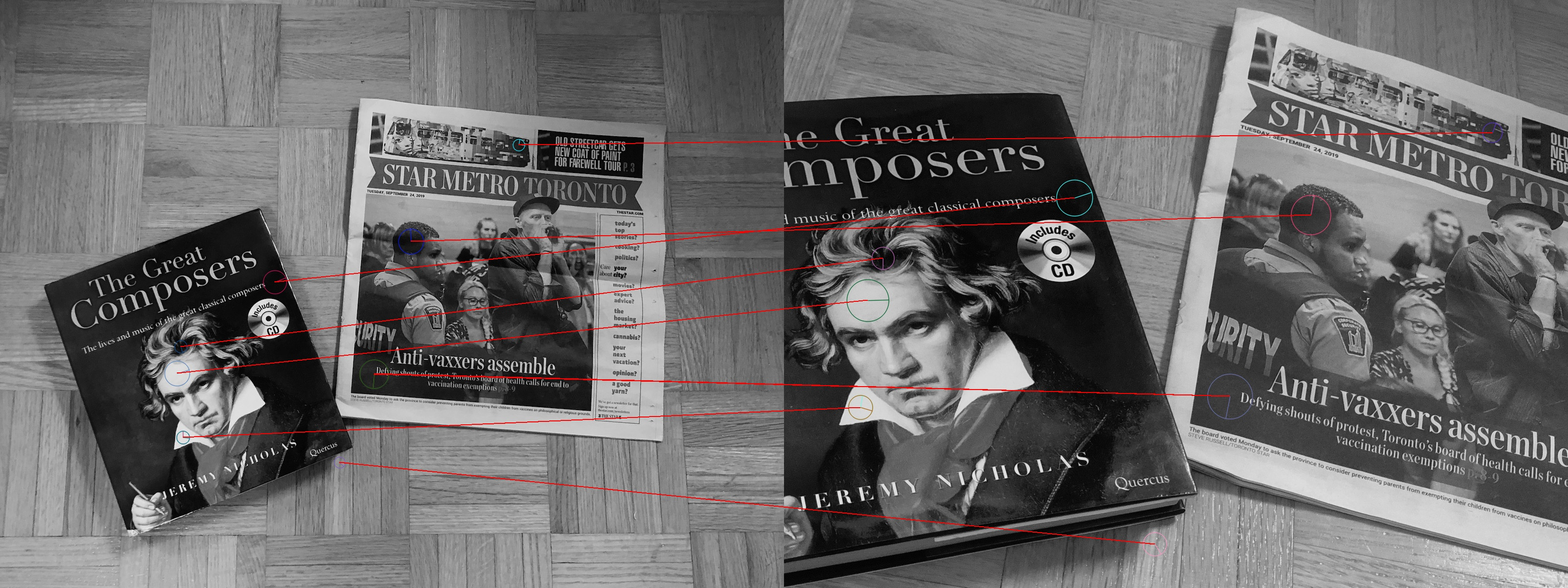
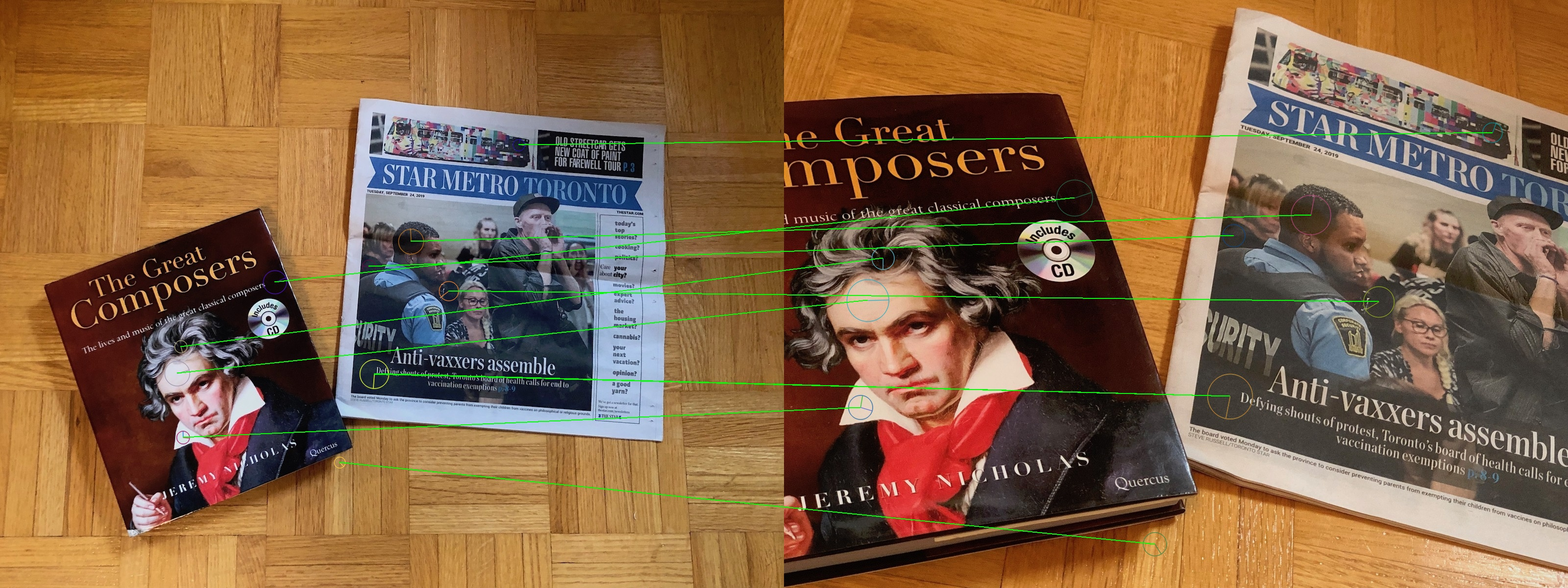
added l1norm and l3norm

diff --git a/A2/SIFT_matching.py b/A2/SIFT_matching.py
@@ -29,7 +29,7 @@ def sift(img, nfeatures=100, ct = 0.04, et = 5, sigma = 20):
     img = cv2.drawKeypoints(gray, kp, img, flags=cv2.DRAW_MATCHES_FLAGS_DRAW_RICH_KEYPOINTS)
     return kp, des, img
 
-def match(kp1, des1, kp2, des2, max_n = 10):
+def match(kp1, des1, kp2, des2, max_n = 12):
     lkp1 = len(kp1)
     lkp2 = len(kp2)
     point_list = []
@@ -46,9 +46,17 @@ def match(kp1, des1, kp2, des2, max_n = 10):
     return point_list[:min(len(point_list), max_n)]
 
 def distance(des1, des2):
+    # L2 Norm
     dis = des1 - des2
     l2norm = np.linalg.norm(dis, 2)
-    return l2norm
+
+    # L1 Norm
+    l1norm = np.linalg.norm(dis, 1)
+
+    # L3 Norm
+    l3norm = np.linalg.norm(dis, 3)
+
+    return l3norm
 
 def concatenate(i1, i2):
     assert i1.shape == i2.shape
@@ -73,12 +81,10 @@ if __name__ == "__main__":
     # Plot keypoints on both images
     a1 = load_color_image("sample1.jpg")
     a2 = load_color_image("sample2.jpg")
-    gray1 = cv2.cvtColor(a1, cv2.COLOR_BGR2GRAY)
-    gray2 = cv2.cvtColor(a2, cv2.COLOR_BGR2GRAY)
+    # gray1 = cv2.cvtColor(a1, cv2.COLOR_BGR2GRAY)
+    # gray2 = cv2.cvtColor(a2, cv2.COLOR_BGR2GRAY)
     test1 = cv2.drawKeypoints(a1, [i[0] for i in r], a1, flags=cv2.DRAW_MATCHES_FLAGS_DRAW_RICH_KEYPOINTS)
     test2 = cv2.drawKeypoints(a2, [i[1] for i in r], a2, flags=cv2.DRAW_MATCHES_FLAGS_DRAW_RICH_KEYPOINTS)
-    test1_gray = cv2.drawKeypoints(gray1, [i[0] for i in r], a1, flags=cv2.DRAW_MATCHES_FLAGS_DRAW_RICH_KEYPOINTS)
-    test2_gray = cv2.drawKeypoints(gray2, [i[1] for i in r], a2, flags=cv2.DRAW_MATCHES_FLAGS_DRAW_RICH_KEYPOINTS)
     
     # Concatenate two images
     test = concatenate(test1, test2)
@@ -88,13 +94,8 @@ if __name__ == "__main__":
         c0 = int(i[0].pt[0])
         r1 = int(i[1].pt[1])
         c1 = int(i[1].pt[0]) + horizontal_shift
-        print(r0, c0, r1, c1)
         rr, cc, val = line_aa(r0, c0, r1, c1)
-        print(rr)
-        test[rr, cc] = np.array([0,0,255])
-    save_image("test.jpg", test)
-
-    test_gray = concatenate(test1_gray, test2_gray)
-    save_image("test_gray.jpg", test_gray)
+        test[rr, cc] = np.array([0,255,0])
+    save_image("test_l3norm.jpg", test)
 
     
